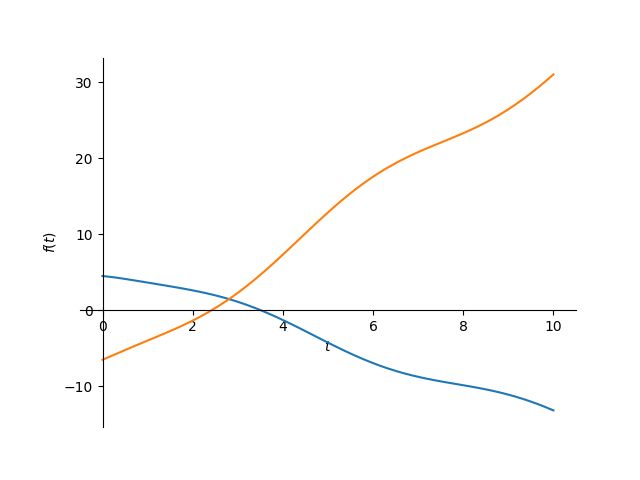
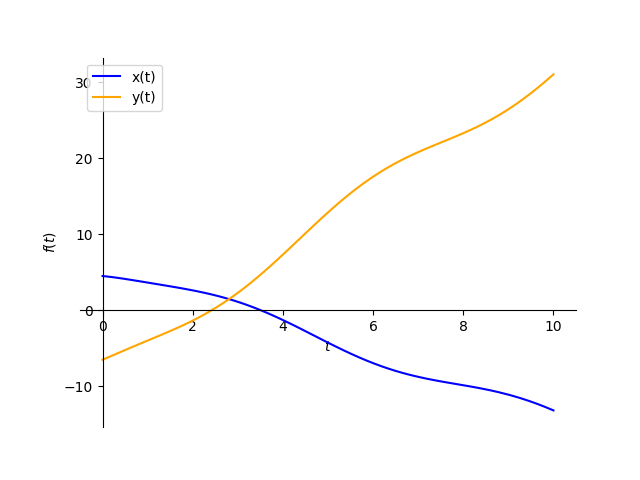
Update: become changeable line color and label of graph

diff --git a/07/05.py b/07/05.py
@@ -22,4 +22,8 @@ print("特殊解:")
 print(f"{anss_sp[0].lhs} = {anss_sp[0].rhs}")
 print(f"{anss_sp[1].lhs} = {anss_sp[1].rhs}")
 # グラフを描画。x(t)が青、y(t)がオレンジ
-plot(anss_sp[0].rhs, anss_sp[1].rhs, (t,0,10)).save("./07/img/05.png")
+plot_x = plot(anss_sp[0].rhs, (t,0,10), show=False, line_color="blue", label="x(t)", legend=True)
+plot_y = plot(anss_sp[1].rhs, (t,0,10), show=False, line_color="orange", label="y(t)", legend=True)
+plot_x.append(plot_y[0])
+plot_x.save("./07/img/05.png")
+plot_x.show()
